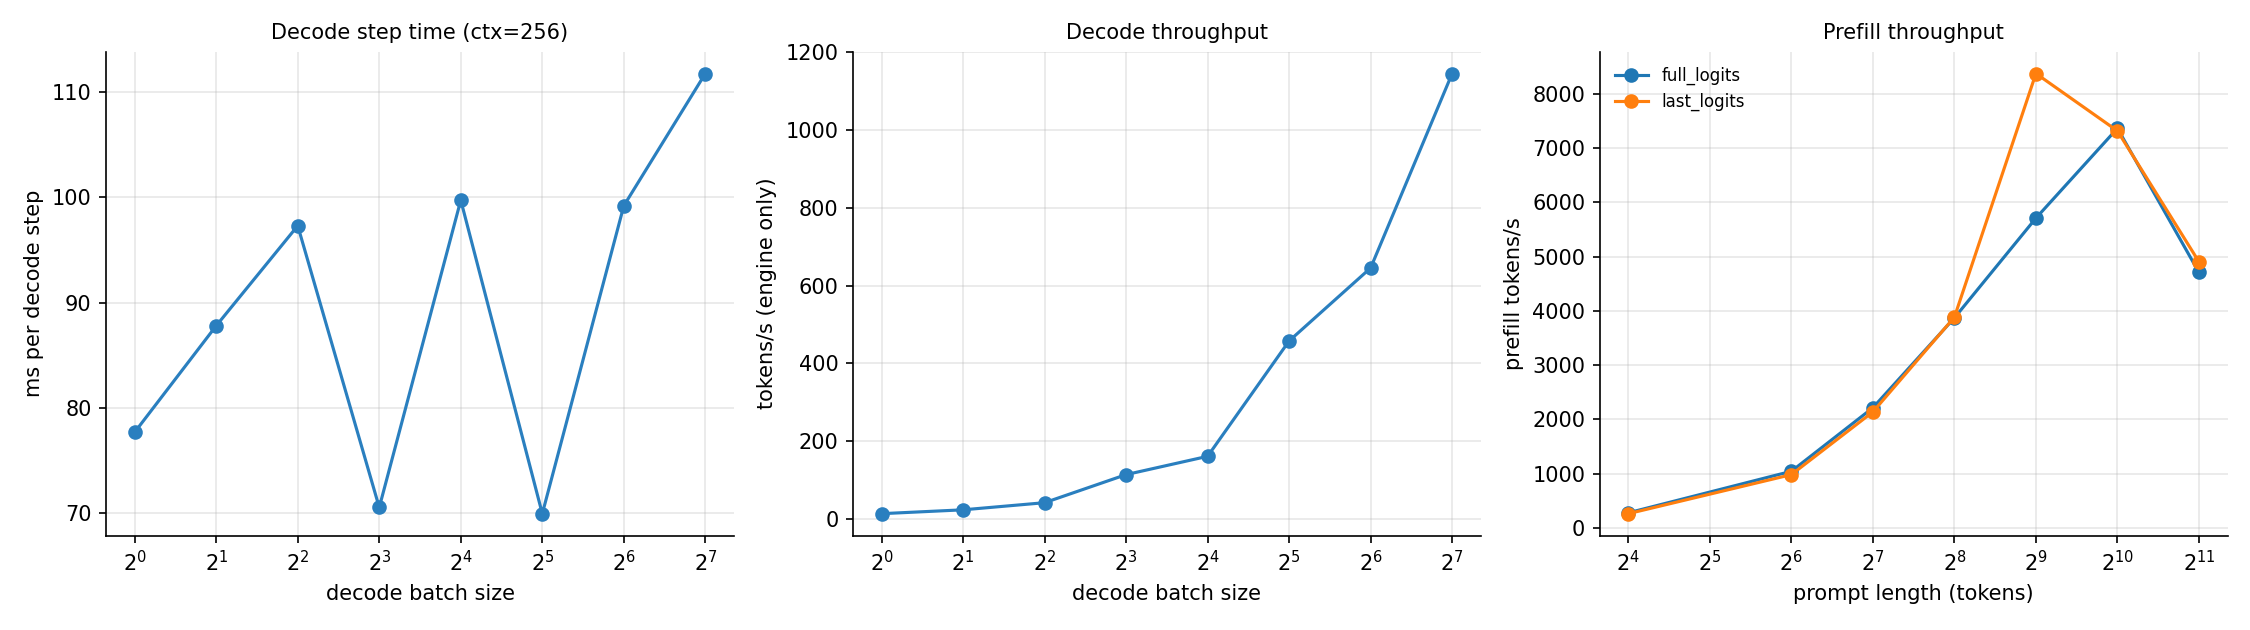
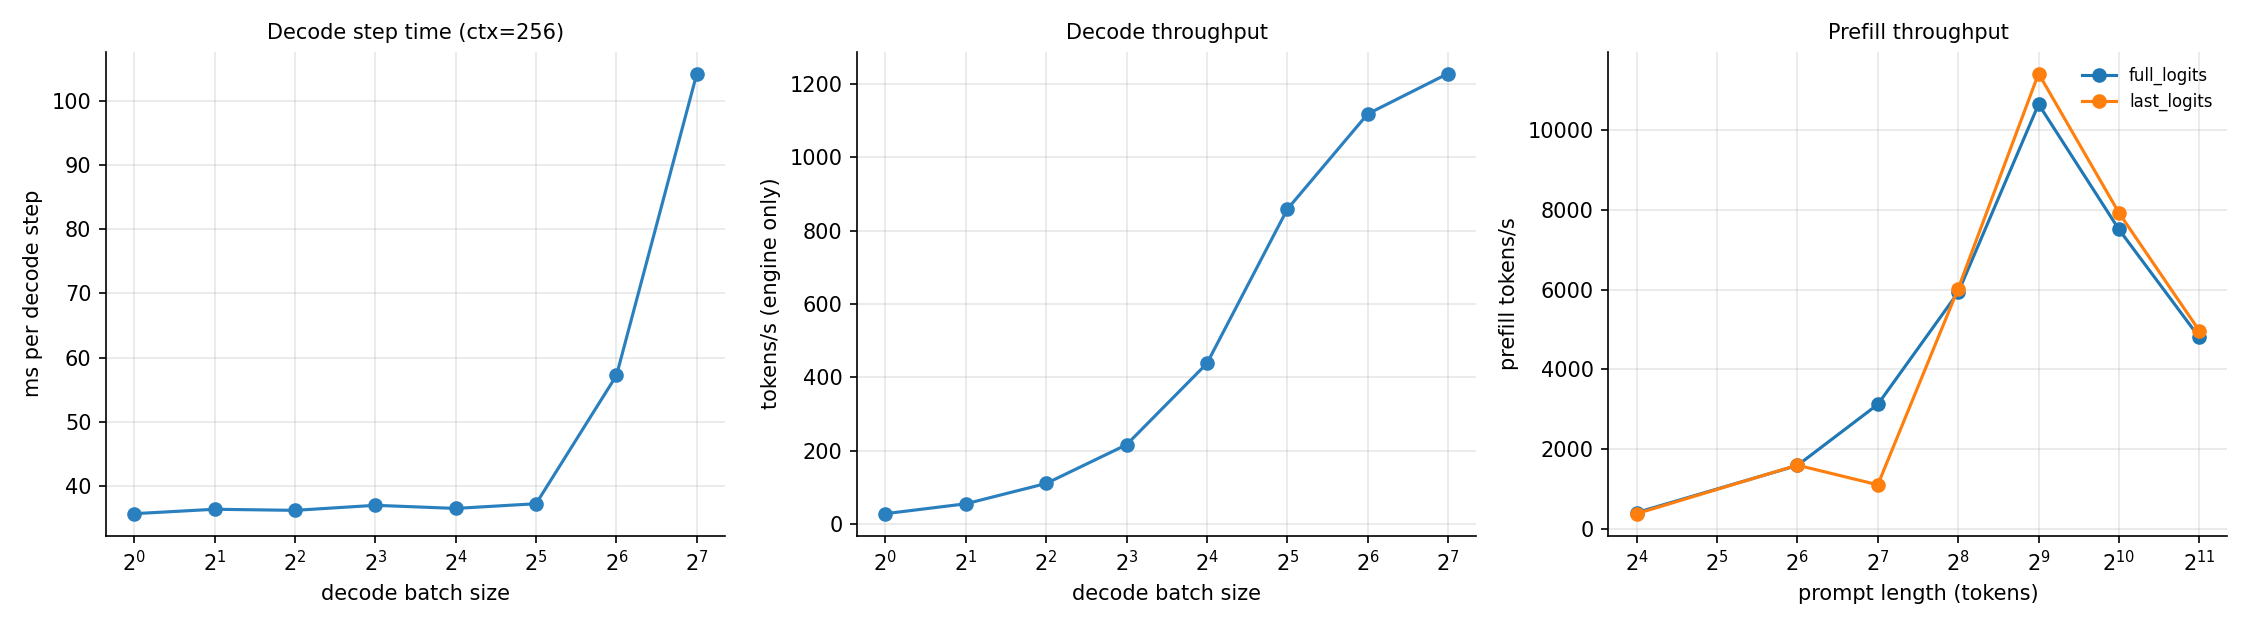
Make decode microbenchmark robust to host noise; regenerate report

diff --git a/src/llmserve/microbench.py b/src/llmserve/microbench.py
@@ -74,8 +74,10 @@ def decode_curve(model, device, vocab, batches, ctx=256, steps=8):
                 model(input_ids=nxt, attention_mask=mask, position_ids=pos,
                       past_key_values=cache, use_cache=True)
 
-            sec = _timed(step, device, warmup=2, iters=steps)
-            rows.append({"batch": b, "ctx": ctx, "step_ms": sec * 1e3, "tok_per_s": b / sec})
+            secs = [_timed(step, device, warmup=3, iters=steps) for _ in range(5)]   # best of 5 medians
+            sec = min(secs)
+            rows.append({"batch": b, "ctx": ctx, "step_ms": sec * 1e3, "tok_per_s": b / sec,
+                         "step_ms_worst": max(secs) * 1e3})
         except torch.cuda.OutOfMemoryError:
             torch.cuda.empty_cache()
             rows.append({"batch": b, "ctx": ctx, "step_ms": float("nan"), "tok_per_s": float("nan")})

diff --git a/src/llmserve/report.py b/src/llmserve/report.py
@@ -209,6 +209,11 @@ def microbench_section(findings):
     plt.savefig(FIGS / "microbench.png", dpi=150)
     plt.close()
     d = dec.dropna(subset=["step_ms"])
+    if "step_ms_worst" in d and len(d) > 1:
+        spread = (d["step_ms_worst"] / d["step_ms"]).max()
+        if spread > 1.5:
+            findings.append(f"Microbenchmark timing was noisy on this host (worst/best repeat up to {spread:.1f}x); "
+                            f"step times above are best-of-5 medians, so treat them as lower bounds on cost.")
     if len(d) > 1:
         b0 = d.iloc[0]
         flat = d[d["step_ms"] <= 1.5 * b0["step_ms"]]

diff --git a/reports/RESULTS.md b/reports/RESULTS.md
@@ -13,9 +13,9 @@
 - Closed-loop peak: **continuous-32** 469 tok/s = 18.2x sequential (26 tok/s).
 - Closed-loop peak: **static-16** 161 tok/s = 6.3x sequential (26 tok/s).
 - Closed-loop peak: **vllm** 1399 tok/s = 54.3x sequential (26 tok/s).
-- Decode step time is nearly flat in batch size: within 1.5x of batch 1 (77.70 ms) up to batch **128**, where decode tokens/s is 89.0x batch 1. This is why batching raises throughput.
-- At batch 128 a decode step takes 111.73 ms, 3.9% of the assumed 320 GB/s peak bandwidth: well below the memory roofline, so the step is not bandwidth-bound; kernel-launch / Python overhead is the likely limiter (check profile_decode.txt).
-- Prefill of a 2048-token prompt takes 417.7 ms when only the last position's logits are computed vs 435.1 ms with full-vocab logits at every position (1.0x).
+- Decode step time is nearly flat in batch size: within 1.5x of batch 1 (35.74 ms) up to batch **32**, where decode tokens/s is 30.7x batch 1. This is why batching raises throughput.
+- At batch 128 a decode step takes 104.21 ms, 4.2% of the assumed 320 GB/s peak bandwidth: well below the memory roofline, so the step is not bandwidth-bound; kernel-launch / Python overhead is the likely limiter (check profile_decode.txt).
+- Prefill of a 2048-token prompt takes 412.4 ms when only the last position's logits are computed vs 426.9 ms with full-vocab logits at every position (1.0x).
 - Computing the lm_head only for the last prompt position raises closed-loop throughput (260 -> 268 tok/s, 1.03x; run-to-run spread is not shown, so treat differences under ~5% as noise) and moves the share of GPU time spent in prefill from 12% to 12%.
 - float16/int8: 0.26x throughput vs fp32, perplexity 22.455 vs 22.426, greedy outputs match fp32 for the first 58% of tokens on average.
 - float16/nf4: 0.81x throughput vs fp32, perplexity 25.025 vs 22.426, greedy outputs match fp32 for the first 17% of tokens on average.
@@ -59,14 +59,14 @@
 
 | batch | step_ms | tok_per_s | achieved_gb_per_s | bw_utilisation |
 |---|---|---|---|---|
-| 1.000 | 77.698 | 12.870 | 12.757 | 0.040 |
-| 2.000 | 87.797 | 22.780 | 11.326 | 0.035 |
-| 4.000 | 97.287 | 41.116 | 10.286 | 0.032 |
-| 8.000 | 70.559 | 113.380 | 14.360 | 0.045 |
-| 16.000 | 99.710 | 160.466 | 10.414 | 0.033 |
-| 32.000 | 69.966 | 457.366 | 15.561 | 0.049 |
-| 64.000 | 99.183 | 645.269 | 11.992 | 0.037 |
-| 128.000 | 111.731 | 1145.608 | 12.447 | 0.039 |
+| 1.000 | 35.736 | 27.983 | 27.737 | 0.087 |
+| 2.000 | 36.421 | 54.913 | 27.301 | 0.085 |
+| 4.000 | 36.254 | 110.334 | 27.601 | 0.086 |
+| 8.000 | 37.037 | 216.000 | 27.357 | 0.085 |
+| 16.000 | 36.554 | 437.713 | 28.408 | 0.089 |
+| 32.000 | 37.285 | 858.259 | 29.200 | 0.091 |
+| 64.000 | 57.243 | 1118.040 | 20.778 | 0.065 |
+| 128.000 | 104.214 | 1228.245 | 13.345 | 0.042 |
 
 ### Optimisation ablation: last-position logits in prefill
 

diff --git a/README.md b/README.md
@@ -101,9 +101,9 @@ merged text (tested).
 - Closed-loop peak: **continuous-32** 469 tok/s = 18.2x sequential (26 tok/s).
 - Closed-loop peak: **static-16** 161 tok/s = 6.3x sequential (26 tok/s).
 - Closed-loop peak: **vllm** 1399 tok/s = 54.3x sequential (26 tok/s).
-- Decode step time is nearly flat in batch size: within 1.5x of batch 1 (77.70 ms) up to batch **128**, where decode tokens/s is 89.0x batch 1. This is why batching raises throughput.
-- At batch 128 a decode step takes 111.73 ms, 3.9% of the assumed 320 GB/s peak bandwidth: well below the memory roofline, so the step is not bandwidth-bound; kernel-launch / Python overhead is the likely limiter (check profile_decode.txt).
-- Prefill of a 2048-token prompt takes 417.7 ms when only the last position's logits are computed vs 435.1 ms with full-vocab logits at every position (1.0x).
+- Decode step time is nearly flat in batch size: within 1.5x of batch 1 (35.74 ms) up to batch **32**, where decode tokens/s is 30.7x batch 1. This is why batching raises throughput.
+- At batch 128 a decode step takes 104.21 ms, 4.2% of the assumed 320 GB/s peak bandwidth: well below the memory roofline, so the step is not bandwidth-bound; kernel-launch / Python overhead is the likely limiter (check profile_decode.txt).
+- Prefill of a 2048-token prompt takes 412.4 ms when only the last position's logits are computed vs 426.9 ms with full-vocab logits at every position (1.0x).
 - Computing the lm_head only for the last prompt position raises closed-loop throughput (260 -> 268 tok/s, 1.03x; run-to-run spread is not shown, so treat differences under ~5% as noise) and moves the share of GPU time spent in prefill from 12% to 12%.
 - float16/int8: 0.26x throughput vs fp32, perplexity 22.455 vs 22.426, greedy outputs match fp32 for the first 58% of tokens on average.
 - float16/nf4: 0.81x throughput vs fp32, perplexity 25.025 vs 22.426, greedy outputs match fp32 for the first 17% of tokens on average.
